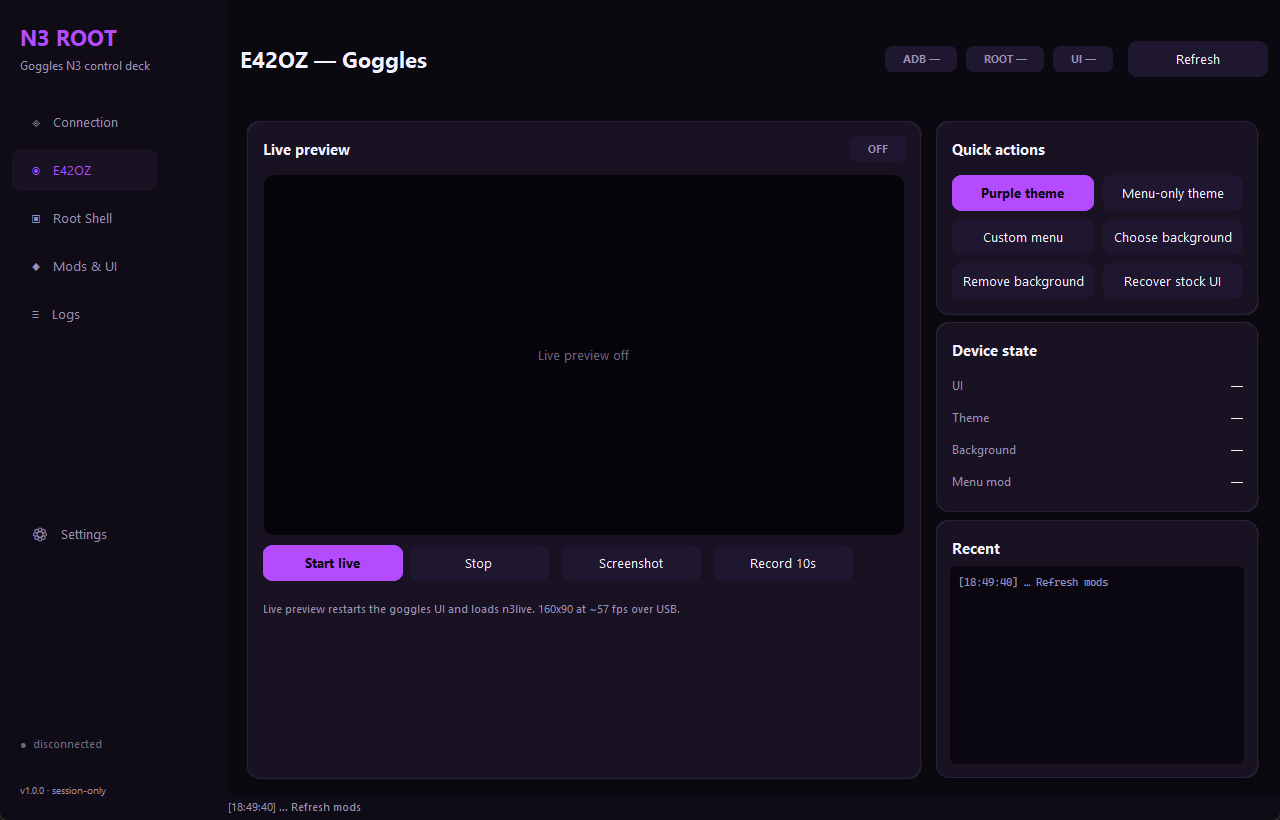
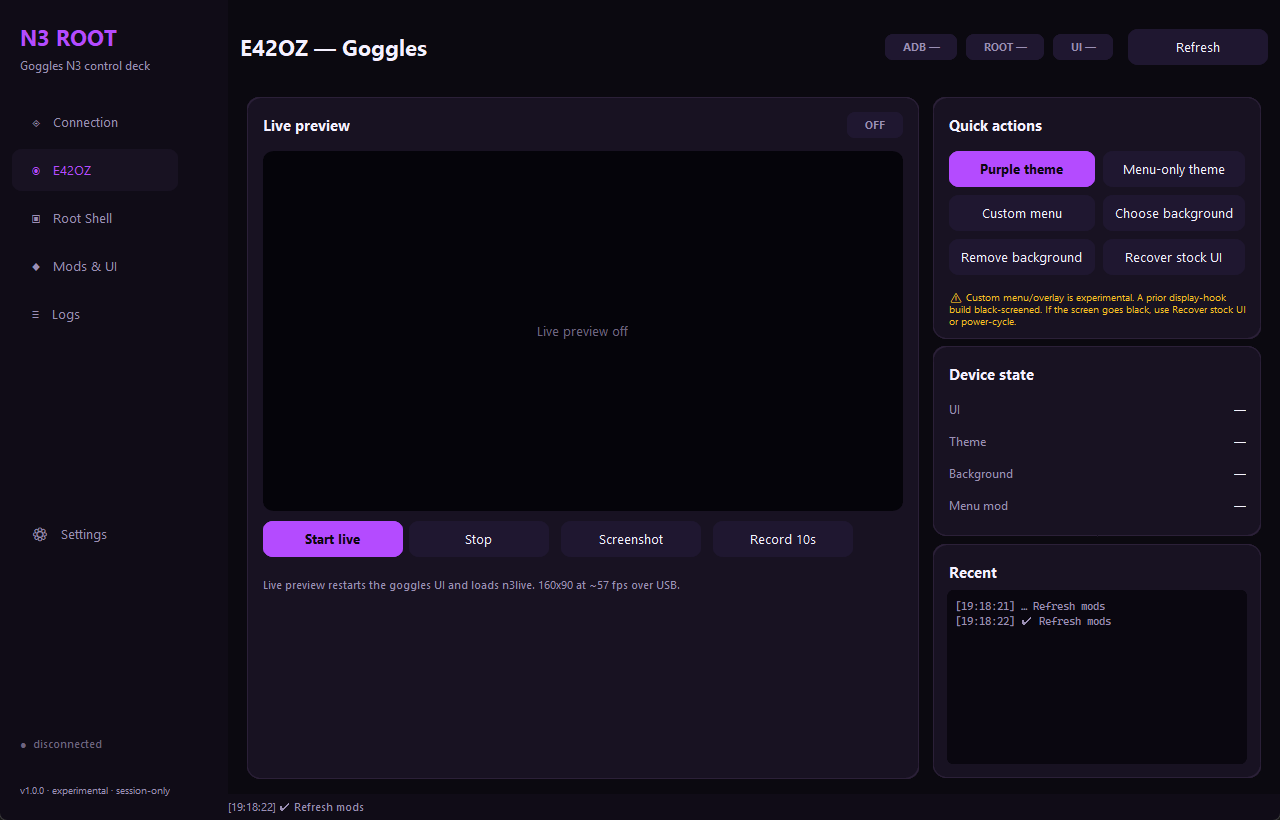
Label experimental/crash-prone features; add stability table and issue template

diff --git a/app/main.py b/app/main.py
@@ -131,7 +131,11 @@ class ConnectionPage(ctk.CTkFrame):
               "1) Connect USB and power on the goggles.  2) Start root (blackbox RCE).  "
               "3) Enable ADB.  4) Open E42OZ for live preview and mods.\n"
               "Recover stock UI is always available if the screen ever goes black.",
-              12, justify="left").pack(anchor="w", padx=18, pady=(0, 14))
+              12, justify="left").pack(anchor="w", padx=18, pady=(0, 6))
+        lbl(helpc, "⚠ Experimental: custom menu/overlay and display hooks can break "
+                   "rendering. See docs/EXPERIMENTAL.md. Use Recover stock UI if needed.",
+            11, True, theme.WARN, wraplength=900, justify="left").pack(
+                anchor="w", padx=18, pady=(0, 14))
 
     def act_adb(self):
         self.app.run_task(lambda: n3ctl.enable_adb(log=self.app.log),
@@ -236,6 +240,11 @@ class GogglesPage(ctk.CTkFrame):
                 ("Recover stock UI", self.recover_stock, False)]):
             b = btn(q, text, cmd, accent=acc)
             b.grid(row=i // 2, column=i % 2, padx=4, pady=4, sticky="ew")
+        lbl(quick, "⚠ Custom menu/overlay is experimental. A prior display-hook "
+                   "build black-screened. If the screen goes black, use "
+                   "Recover stock UI or power-cycle.",
+            10, False, theme.WARN, wraplength=300, justify="left").pack(
+                anchor="w", padx=16, pady=(0, 12))
 
         state = card(right)
         state.grid(row=1, column=0, sticky="ew", pady=7)
@@ -547,9 +556,16 @@ class ModsPage(ctk.CTkFrame):
             left = ctk.CTkFrame(row, fg_color="transparent")
             left.pack(side="left", fill="x", expand=True, padx=12, pady=8)
             lbl(left, m.get("name", m.get("id")), 13, True).pack(anchor="w")
-            muted(left, "%s · v%s · %s" % (m.get("type", "mod"),
-                                          m.get("version", "?"),
-                                          m.get("risk", "medium")), 11).pack(anchor="w")
+            line = "%s · v%s · %s" % (m.get("type", "mod"),
+                                      m.get("version", "?"),
+                                      m.get("risk", "medium"))
+            muted(left, line, 11).pack(anchor="w")
+            if m.get("experimental") or m.get("risk") in ("high", "medium"):
+                lbl(left, "⚠ EXPERIMENTAL" if m.get("experimental")
+                    else "⚠ REVIEW BEFORE USE", 10, True, theme.WARN).pack(anchor="w")
+            if m.get("notes"):
+                muted(left, m["notes"], 10, wraplength=430,
+                      justify="left").pack(anchor="w", pady=(2, 0))
             inst = bool(m.get("installed"))
             b = btn(row, "Remove" if inst else "Install",
                     lambda mid=m["id"], on=inst: self.toggle(mid, on))
@@ -753,7 +769,7 @@ class App(ctk.CTk):
         self.side_status = ctk.CTkLabel(side, text="●  disconnected",
                                         font=theme.font(11), text_color=theme.DIM)
         self.side_status.grid(row=8, column=0, padx=20, pady=(0, 18), sticky="w")
-        muted(side, "v%s · session-only" % VERSION, 10).grid(
+        muted(side, "v%s · experimental · session-only" % VERSION, 10).grid(
             row=9, column=0, padx=20, pady=(0, 16), sticky="w")
 
     def _build_main(self):

diff --git a/docs/EXPERIMENTAL.md b/docs/EXPERIMENTAL.md
@@ -1,0 +1,52 @@
+# Stability and experimental features
+
+N3 ROOT is experimental software running on a rooted consumer device. Some
+features can break rendering or leave the UI in a bad state. This page is the
+single source of truth for what is stable and what is risky.
+
+## Quick recovery
+
+If the screen goes black or freezes:
+
+1. App → **Connection → Recover stock UI**
+2. Or power-cycle the goggles (nothing is installed in the boot chain)
+3. Or from a terminal:
+   `py -3.12 -c "import sys; sys.path.insert(0,'app'); import n3ctl; n3ctl.start_stock_ui()"`
+
+## Status table
+
+| Area | Status | Crash/bug history | Notes |
+|---|---|---|---|
+| Control deck UI | **Stable** | — | Builds and runs; smoke-tested. |
+| Live preview (`n3live`) | **Stable** | — | Verified 160×90, ~59 fps. Read-only. |
+| Screenshots (`hook_capture`) | **Stable** | — | Thread-only dmabuf read; no display detour. |
+| Theme patches | **Low risk** | — | Reversible; can leave visual artifacts until revert. |
+| Custom background | **Low risk** | — | Reversible; needs the `n3bg` hook. |
+| Root shell / ADB | **Stable on Windows** | — | Session-only; power-cycle restores stock. |
+| **N3 Menu app** (`n3menu`) | **Experimental / beta** | A previous build with `displayFrame` hooks **black-screened** on 2026-11-25. | The shipped build has those hooks **disabled**. It still uses key/touch suppression and window compositing. Recover stock UI if needed. |
+| **Paint overlay** (`paint`) | **Experimental proof** | — | Minimal compositor demo; not a user app. |
+| **Experimental `DisplayEngine` hooks** (`N3_ENABLE_DISPLAY_HOOKS=1`) | **Do not enable yet** | **Caused the black screen** on 2026-11-25 (three C++ overloads hooked with one generic trampoline). | Compile-time off. Needs one correctly-typed hook, tested in isolation. |
+| Legacy natartos G3 `menu` / `popen` / `template` | **Removed** | G3-era vtable/menu code; unsafe on N3. | Removed from the app catalog and repo assets. |
+| Linux root-shell exploit | **Not implemented** | — | The app/exploit path is Windows-only. Linux uses ADB backup/recovery. |
+
+## Known limitations
+
+- The N3 menu is one window; no full-screen apps yet.
+- The menu's raw touch parser is implemented but not fully verified; buttons are
+  the reliable input.
+- Touch/key suppression uses EW BSP hooks. If a hook fails to install, the
+  stock UI may also react to input.
+- Live preview restarts the goggles UI; it is not a passive capture.
+- The 104 MB stock `libew_gls.so` and `dji_glasses_vendor` are not in git; theme
+  building requires them locally.
+
+## Reporting a bug
+
+Open a GitHub issue with:
+
+- what you clicked,
+- whether **Recover stock UI** fixed it,
+- `dji_glasses.log` / `natartos.log` if the screen was black,
+- goggles firmware and app version.
+
+Do not include personal data or DJI account details.

diff --git a/README.md b/README.md
@@ -6,6 +6,16 @@ in-goggles menu apps, a live USB debug preview, and an in-goggles app SDK.
 
 ![N3 ROOT connection page](docs/screenshot.png)
 
+> ## ⚠ Experimental software
+>
+> The **custom menu/overlay** and **display-engine hooks** can break rendering.
+> A previous `displayFrame` hook build **black-screened** on 2026-11-25; those
+> hooks are now compile-time **off**. If the screen ever goes black:
+> **Connection → Recover stock UI**, or power-cycle the goggles.
+>
+> Read **[docs/EXPERIMENTAL.md](docs/EXPERIMENTAL.md)** before using the menu
+> mod or enabling any experimental hook.
+
 > **Session-only and reversible.** Nothing is written to `/system`, dm-verity is
 > not touched, and OTP/RPMB/bootloader are never used. A reboot restores the
 > stock UI. The app has a one-click **Recover stock UI** escape hatch.
@@ -149,10 +159,22 @@ no frame suppression.
 
 ---
 
+## Stability
+
+See **[docs/EXPERIMENTAL.md](docs/EXPERIMENTAL.md)** for the full table.
+
+| Area | Status |
+|---|---|
+| Control deck, live preview, screenshots, root/ADB | **Stable** |
+| Themes / background | **Low risk**, reversible |
+| **N3 Menu app** | **Experimental/beta** — a prior build black-screened; display hooks disabled in this build |
+| Experimental `DisplayEngine` hooks | **Off — do not enable yet** |
+| Legacy G3 menu/popen/template mods | **Removed** (unsafe on N3) |
+
 ## Mods and the in-goggles SDK
 
 - `mods/n3menu` — custom in-goggles menu (window composited into the live
-  buffer, key/touch suppression, long-press OK/exit).
+  buffer, key/touch suppression, long-press OK/exit). **Experimental/beta.**
 - `mods/n3live` — live preview source.
 - `mods/capture` — safe screenshots.
 - `mods/paint` — minimal overlay proof.

diff --git a/.github/ISSUE_TEMPLATE/bug_report.md b/.github/ISSUE_TEMPLATE/bug_report.md
@@ -1,0 +1,35 @@
+---
+name: Bug report
+about: Something broke, flickered, or black-screened
+title: "[bug] "
+labels: bug
+---
+
+## What happened
+
+<!-- What did you click, and what did the goggles/app do? -->
+
+## Recovery
+
+- [ ] **Recover stock UI** fixed it
+- [ ] Power-cycle fixed it
+- [ ] Still broken
+
+## Environment
+
+- App version:
+- Windows version:
+- Goggles model/firmware:
+- ADB / root state:
+- Experimental features used: none / N3 Menu / Paint / display hooks / other
+
+## Logs
+
+Paste the relevant tail of:
+
+- `natartos.log`
+- `dji_glasses.log`
+- the app status bar / modal error
+
+Do **not** include personal data, DJI account details, serial numbers, or
+private keys.

diff --git a/docs/README.md b/docs/README.md
@@ -8,6 +8,7 @@
 | [`ADB-ROOT.md`](ADB-ROOT.md) | ADB enable path and root breakthrough notes. |
 | [`SELINUX.md`](SELINUX.md) | SELinux domain findings. |
 | [`SAFETY.md`](SAFETY.md) | Scope, recovery, legal. |
+| [`EXPERIMENTAL.md`](EXPERIMENTAL.md) | **Stability table, black-screen history, what is experimental.** |
 | [`LIVE-STREAM.md`](LIVE-STREAM.md) | 160×90/57 fps UI stream, Toolya/H.264 comparison. |
 | [`OVERLAY-SDK.md`](OVERLAY-SDK.md) | In-goggles window compositing and the SDK. |
 | [`ARCHITECTURE.md`](ARCHITECTURE.md) | Why an in-process mod SDK, not an Android app. |

diff --git a/docs/CHANGELOG.md b/docs/CHANGELOG.md
@@ -2,6 +2,11 @@
 
 ## 1.0.0 — 2026-11-25
 
+- Labelled experimental/crash-prone areas in the app, plugin manifests, README,
+  and `docs/EXPERIMENTAL.md`. The N3 Menu is **experimental/beta**; the
+  `displayFrame` hooks that black-screened are compile-time **off**.
+- Marked the GitHub release as a **prerelease** and included recovery steps.
+
 - New CustomTkinter control deck: Connection, E42OZ, Root Shell, Mods & UI,
   Logs, Settings.
 - Embedded live preview from the goggles UI: 160×90, ~59 fps (verified).
